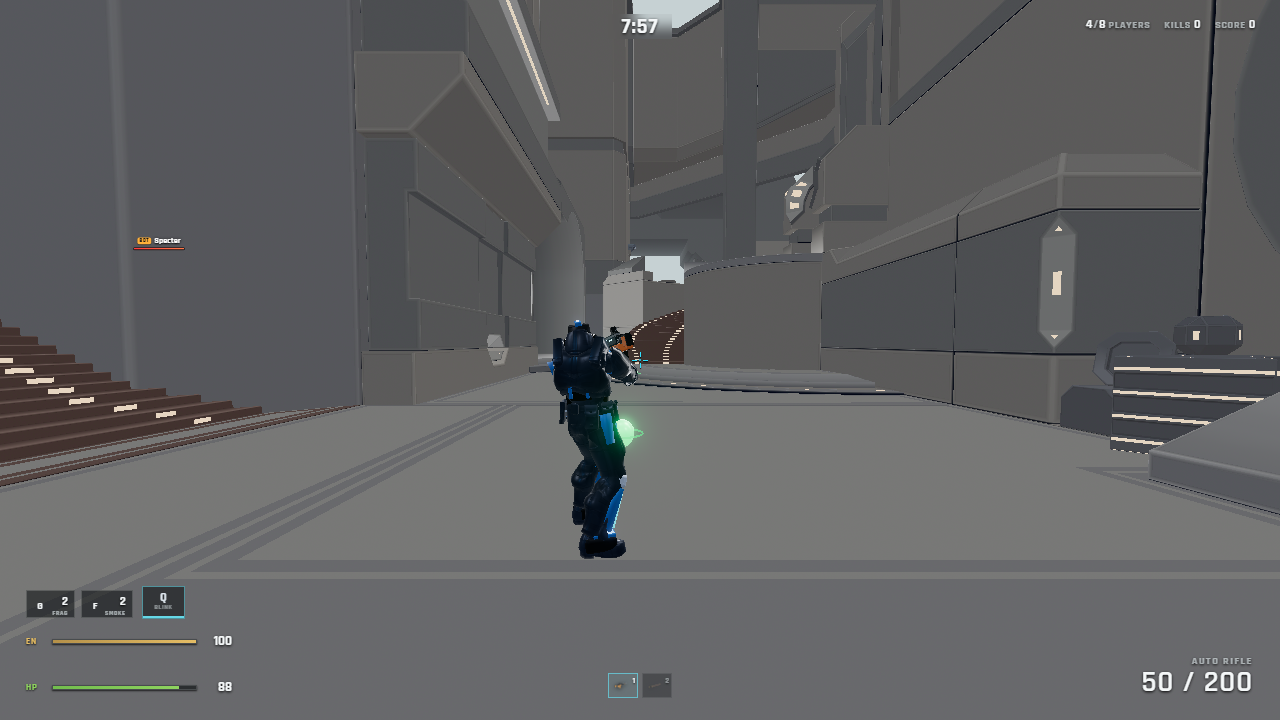
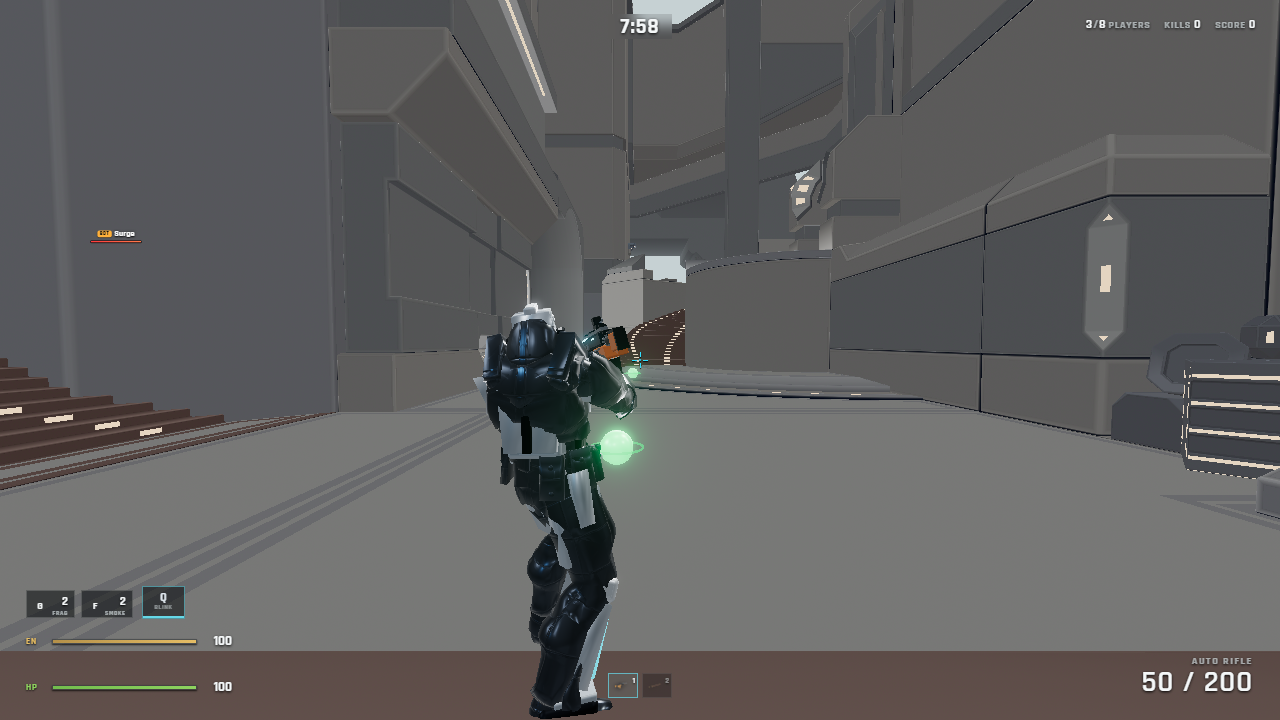
Match armored player scale and silhouette

diff --git a/src/player/HumanSoldier.js b/src/player/HumanSoldier.js
@@ -69,9 +69,9 @@ const HEAD_SQUASH = new THREE.Vector3(0.82, 0.6, 0.86);
 // scale. This is what makes the loadout's armor cards each preview a different
 // "model" instead of the same green Chief four times.
 export const ARMOR_LOOKS = {
-  assault: { // slate tactical plate with orange energy glow (default)
-    body: 0x596775, visor: 0xffa229,
-    roughness: 0.42, metalness: 0.5, scale: 1.00,
+  assault: { // bright silver exosuit with cyan energy glow (default)
+    body: 0xb9c4cf, visor: 0x38ddff,
+    roughness: 0.34, metalness: 0.70, scale: 1.00,
   },
   recon: {   // sleek light-blue scout exo
     body: 0x2f6fae, visor: 0x36f0ff,
@@ -1076,15 +1076,15 @@ function _buildArmorPieces(root, armorTypeId, look, armorSkin = null) {
     side: THREE.DoubleSide,
   });
   cape.userData.armorRole = 'dark';
-  // Dark tactical helmet shell — a near-black gunmetal that matches the dark
-  // plating instead of a bright white dome. Carries only a whisper of the
-  // variant hue so recon/heavy/stealth still read subtly different, but no
-  // armour (least of all the white/silver assault) shows a big white egg.
+  // Compact plate-coloured helmet shell over a recessed dark faceplate. The
+  // shell joins the outer armor language while its small proportions avoid the
+  // oversized round dome that made the previous body look toy-like.
   const helmetMat = new THREE.MeshStandardMaterial({
-    color: readableUnder.clone().multiplyScalar(0.78).lerp(new THREE.Color(0x202733), 0.35),
-    roughness: 0.4, metalness: 0.72, envMapIntensity: 1.0,
+    color: new THREE.Color(plateColor).multiplyScalar(0.88),
+    emissive: new THREE.Color(plateColor).multiplyScalar(0.06), emissiveIntensity: 0.16,
+    roughness: finishRoughness * 0.92, metalness: finishMetalness, envMapIntensity: 1.15,
   });
-  helmetMat.userData.armorRole = 'dark';
+  helmetMat.userData.armorRole = 'plate';
   // Dark glossy visor glass — a near-black reflective faceplate (Halo/Titanfall
   // style) so the face reads as a real visor, not a bright oval.
   const visorMat = new THREE.MeshStandardMaterial({
@@ -1268,10 +1268,10 @@ function _buildArmorPieces(root, armorTypeId, look, armorSkin = null) {
       { bone: 'Spine2', geo: box(0.17, 0.022, 0.026), mat: trim, x: 0, y: 1.425, z: -0.125 },
       // Layered pauldrons (shoulder bone ~1.429): a rounded cap, a polished trim
       // lip, and a status beacon on the outer face.
-      { bone: 'LeftShoulder',  geo: taper(0.16, 0.125, 0.115, 0.17, 0.13, -0.012), mat: plate, x: -0.185, y: 1.43, z: 0.01 },
-      { bone: 'RightShoulder', geo: taper(0.16, 0.125, 0.115, 0.17, 0.13,  0.012), mat: plate, x:  0.185, y: 1.43, z: 0.01 },
-      { bone: 'LeftShoulder',  geo: box(0.132, 0.024, 0.145), mat: trim,  x: -0.185, y: 1.485, z: 0.01 },
-      { bone: 'RightShoulder', geo: box(0.132, 0.024, 0.145), mat: trim,  x:  0.185, y: 1.485, z: 0.01 },
+      { bone: 'LeftShoulder',  geo: taper(0.19, 0.14, 0.125, 0.18, 0.14, -0.014), mat: plate, x: -0.19, y: 1.43, z: 0.01 },
+      { bone: 'RightShoulder', geo: taper(0.19, 0.14, 0.125, 0.18, 0.14,  0.014), mat: plate, x:  0.19, y: 1.43, z: 0.01 },
+      { bone: 'LeftShoulder',  geo: box(0.15, 0.024, 0.15), mat: trim,  x: -0.19, y: 1.49, z: 0.01 },
+      { bone: 'RightShoulder', geo: box(0.15, 0.024, 0.15), mat: trim,  x:  0.19, y: 1.49, z: 0.01 },
       { bone: 'LeftShoulder', geo: box(0.035, 0.035, 0.035), mat: accent, x: -0.225, y: 1.48, z: -0.02,
         anim: { type: 'blink', freq: 4, on: 1.9, off: 0.2 } },            // shoulder beacons (alternating)
       { bone: 'RightShoulder', geo: box(0.035, 0.035, 0.035), mat: accent, x: 0.225, y: 1.48, z: -0.02,
@@ -1293,12 +1293,16 @@ function _buildArmorPieces(root, armorTypeId, look, armorSkin = null) {
       { bone: 'RightArm', geo: box(0.06, 0.025, 0.022), mat: accent, x:  0.265, y: 1.445, z: -0.064 },
       { bone: 'LeftUpLeg',  geo: taper(0.14, 0.105, 0.285, 0.115, 0.09), mat: plate, x: -0.105, y: 0.82, z: -0.045 },
       { bone: 'RightUpLeg', geo: taper(0.14, 0.105, 0.285, 0.115, 0.09), mat: plate, x:  0.105, y: 0.82, z: -0.045 },
+      { bone: 'LeftUpLeg',  geo: taper(0.11, 0.085, 0.24, 0.07, 0.06), mat: plate, x: -0.105, y: 0.80, z: 0.072 },
+      { bone: 'RightUpLeg', geo: taper(0.11, 0.085, 0.24, 0.07, 0.06), mat: plate, x:  0.105, y: 0.80, z: 0.072 },
       { bone: 'LeftUpLeg',  geo: box(0.035, 0.20, 0.022), mat: accent, x: -0.105, y: 0.83, z: -0.108 },
       { bone: 'RightUpLeg', geo: box(0.035, 0.20, 0.022), mat: accent, x:  0.105, y: 0.83, z: -0.108 },
       { bone: 'LeftLeg',  geo: box(0.14, 0.105, 0.115), mat: trim, x: -0.10, y: 0.56, z: -0.055 },
       { bone: 'RightLeg', geo: box(0.14, 0.105, 0.115), mat: trim, x:  0.10, y: 0.56, z: -0.055 },
       { bone: 'LeftLeg',  geo: taper(0.13, 0.095, 0.31, 0.11, 0.085), mat: plate, x: -0.10, y: 0.35, z: -0.045 },
       { bone: 'RightLeg', geo: taper(0.13, 0.095, 0.31, 0.11, 0.085), mat: plate, x:  0.10, y: 0.35, z: -0.045 },
+      { bone: 'LeftLeg',  geo: taper(0.10, 0.075, 0.25, 0.065, 0.055), mat: plate, x: -0.10, y: 0.34, z: 0.062 },
+      { bone: 'RightLeg', geo: taper(0.10, 0.075, 0.25, 0.065, 0.055), mat: plate, x:  0.10, y: 0.34, z: 0.062 },
       { bone: 'LeftLeg',  geo: box(0.032, 0.245, 0.022), mat: accent, x: -0.10, y: 0.35, z: -0.108 },
       { bone: 'RightLeg', geo: box(0.032, 0.245, 0.022), mat: accent, x:  0.10, y: 0.35, z: -0.108 },
       { bone: 'LeftFoot',  geo: box(0.15, 0.105, 0.23), mat: dark, x: -0.10, y: 0.09, z: -0.03 },
@@ -1307,9 +1311,10 @@ function _buildArmorPieces(root, armorTypeId, look, armorSkin = null) {
       { bone: 'RightFoot', geo: box(0.115, 0.035, 0.17), mat: plate, x:  0.10, y: 0.145, z: -0.055 },
       // Compact, layered power pack: the waist and arms remain readable from
       // behind, and the selected plate colour now carries into the rear view.
-      { bone: 'Spine2', geo: box(0.18, 0.20, 0.085), mat: dark, x: 0, y: 1.27, z: 0.105 },
-      { bone: 'Spine2', geo: box(0.025, 0.17, 0.025), mat: plate, x: -0.068, y: 1.27, z: 0.158 },
-      { bone: 'Spine2', geo: box(0.025, 0.17, 0.025), mat: plate, x:  0.068, y: 1.27, z: 0.158 },
+      { bone: 'Spine2', geo: box(0.24, 0.30, 0.085), mat: plate, x: 0, y: 1.27, z: 0.105 },
+      { bone: 'Spine2', geo: taper(0.115, 0.09, 0.255, 0.045, 0.035, -0.008), mat: plate, x: -0.067, y: 1.28, z: 0.158 },
+      { bone: 'Spine2', geo: taper(0.115, 0.09, 0.255, 0.045, 0.035,  0.008), mat: plate, x:  0.067, y: 1.28, z: 0.158 },
+      { bone: 'Spine2', geo: box(0.038, 0.235, 0.022), mat: dark, x: 0, y: 1.27, z: 0.185 },
       { bone: 'Spine2', geo: box(0.12, 0.025, 0.025), mat: trim, x: 0, y: 1.325, z: 0.160 },
       { bone: 'Spine2', geo: box(0.04, 0.025, 0.018), mat: accent, x: -0.04, y: 1.36, z: 0.168,
         anim: { type: 'pulse', freq: 1.4, min: 0.3, max: 1.2 } },
@@ -1380,7 +1385,15 @@ export function tintHumanSoldier(group, skin, armorSkin = null) {
   if (hex == null) return;
   const tint = new THREE.Color(hex);
   for (const m of mats) {
-    if (m.map) {
+    if (armorSkin) {
+      // The source GLB is a tactical soldier. Once an armor finish is equipped,
+      // its fabric/albedo would show pockets and camouflage through the suit and
+      // make the character read as an army model. Keep the normal detail but
+      // turn the source surface into the finish's clean graphite flex layer;
+      // the procedural hard plates remain the visible outer shell.
+      m.map = null;
+      m.color.copy(new THREE.Color(armorSkin.secondary)).lerp(new THREE.Color(0x4b5766), 0.42);
+    } else if (m.map) {
       // Brighten toward the skin colour so light skins (white armour) read bright,
       // while keeping the texture detail (values can exceed 1 to lift the GLB grey).
       m.color.setRGB(0.45 + 0.7 * tint.r, 0.45 + 0.7 * tint.g, 0.45 + 0.7 * tint.b);

diff --git a/src/player/ArmorSkins.js b/src/player/ArmorSkins.js
@@ -10,8 +10,10 @@ export const RARITY_SHIELD = { common: 20, epic: 60, legendary: 80, mythic: 100 
 export const ARMOR_SKINS = [
   {
     id: 'cobalt_circuit', name: 'Cobalt Circuit', rarity: 'common', starter: true,
-    primary: 0x3b82d0, secondary: 0x0c1420, emissive: 0x45e6ff,
-    emissiveIntensity: 0.75, roughness: 0.44, metalness: 0.58, price: 0, shield: 0,
+    // Bright segmented shell over a graphite flex suit. The previous saturated
+    // blue-on-black finish crushed the model into one dark military silhouette.
+    primary: 0xb9c4cf, secondary: 0x101721, emissive: 0x38ddff,
+    emissiveIntensity: 0.88, roughness: 0.34, metalness: 0.70, price: 0, shield: 0,
   },
   {
     id: 'crimson_guard', name: 'Crimson Guard', rarity: 'common', starter: true,

diff --git a/src/player/ThirdPersonCamera.js b/src/player/ThirdPersonCamera.js
@@ -1,4 +1,6 @@
-export const TPS_DEFAULT_DISTANCE = 2.15;
+// Keep the local body large enough to read during combat without changing its
+// physical stature (which must stay aligned with the capsule, eyes, and feet).
+export const TPS_DEFAULT_DISTANCE = 1.95;
 export const TPS_MAX_DISTANCE = 5.5;
 export const TPS_ZOOM_STEP = 0.7;
 export const TPS_WALL_CLEARANCE = 0.55;
